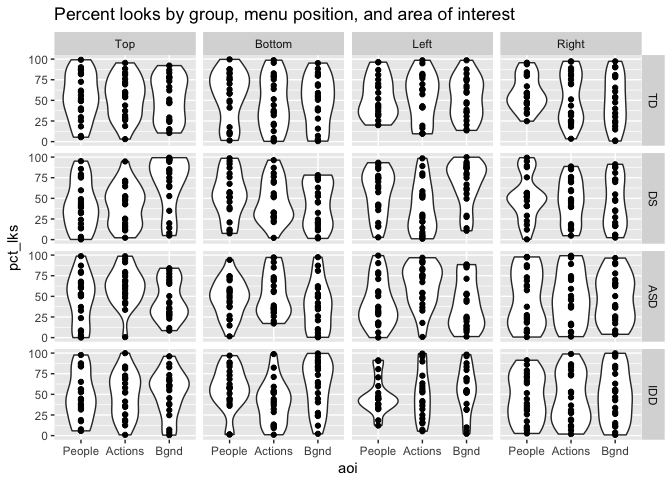
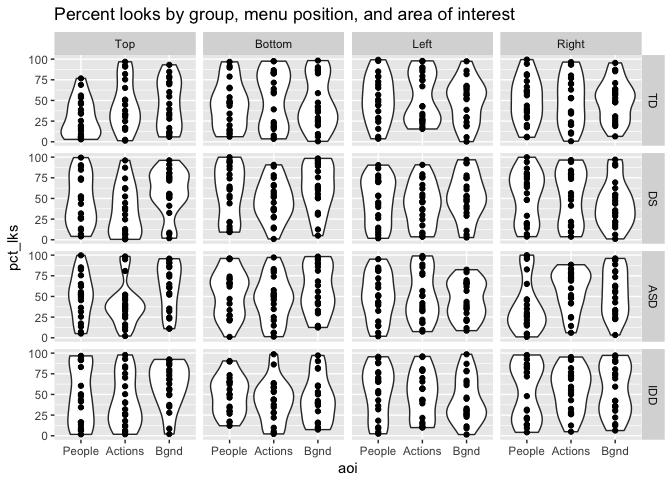
Make plot with real data

diff --git a/demo-plot.md b/demo-plot.md
@@ -1,7 +1,7 @@
 demo-plot
 ================
 Rick Gilmore
-2017-12-18 15:53:57
+2017-12-19 06:04:44
 
 Create random test data file
 ----------------------------
@@ -9,17 +9,16 @@ Create random test data file
 ``` r
 n_subs <- 20
 dx_groups <- c("TD", "DS", "ASD", "IDD")
-n_dx_groups <-  length(dx_groups)
 menu_pos <- c("Top", "Bottom", "Left", "Right")
-n_menu_pos <- length(menu_pos)
 aois <- c("People", "Actions", "Bgnd")
-n_aois <- length(aois)
 
+# Make data frame
 df <- expand.grid(sub_id = 1:20,
                  dx = dx_groups,
                  menu = menu_pos,
                  aoi = aois)
 
+# Generate random values for pct_lks, could specify more if desired
 df$pct_lks <- runif(dim(df)[1], 0, 100)
 ```
 
@@ -37,3 +36,58 @@ p
 ```
 
 ![](demo-plot_files/figure-markdown_github-ascii_identifiers/pct-lks-by-dx-menu-pos-aoi-1.png)
+
+Import Tara's data
+------------------
+
+``` r
+library(readxl)
+library(stringr)
+fn <- "data/S by S data_percent time in VSD_by bar location.xlsx"
+
+# Manual inspection shows that Dx is in separate tabs
+# that the menu position is in row 1 and the aoi labels are
+# in columns B, C, D and E, F, G and H, I, J, and K, L, M
+
+(sheets <- excel_sheets(fn))
+```
+
+    ## [1] "TD"  "ASD" "DS"  "IDD"
+
+``` r
+s1 <- read_excel(fn, sheet = sheets[1], range = "A2:M22")
+s1g <- gather(s1, key = aoi, value = pct_lks, children, object, background, children__1, object__1, background__1, children__2, object__2, background__2, children__3, object__3, background__3)
+
+tidy_vsd <- function(sh=1, fn = "data/S by S data_percent time in VSD_by bar location.xlsx") {
+  require(readxl)
+  require(stringr)
+  t <- read_excel(fn, sheet = sh)
+  # Skip 2nd row, but include rest
+  s <- read_excel(fn, sheet = sh, range = paste0("A2:M", dim(t)[1]+1))
+  sg <- gather(s, key = aoi, value = p_lks, children, object, background, children__1, object__1, background__1, children__2, object__2, background__2, children__3, object__3, background__3)
+  
+  sg$dx <- excel_sheets(fn)[sh]
+  sg$aoi <- str_replace(sg$aoi, "[_0-9]+", "")
+  sg$menu <- rep(c("top", "bottom", "left", "right"), each=dim(s)[1])
+  sg
+}
+
+vsd_list <- lapply(1:4, tidy_vsd)
+vsd <- Reduce(function(x, y) merge(x, y, all = TRUE), vsd_list)
+```
+
+Sample plot
+-----------
+
+``` r
+p_vsd <- vsd %>% 
+  ggplot(aes(aoi, p_lks)) +
+  facet_grid(dx ~ menu) +
+  geom_violin() +
+  geom_point(alpha = .3) +
+  ggtitle("Percent looks by group, menu position, and area of interest")
+ 
+p_vsd 
+```
+
+![](demo-plot_files/figure-markdown_github-ascii_identifiers/plot-vsd-data-1.png)
